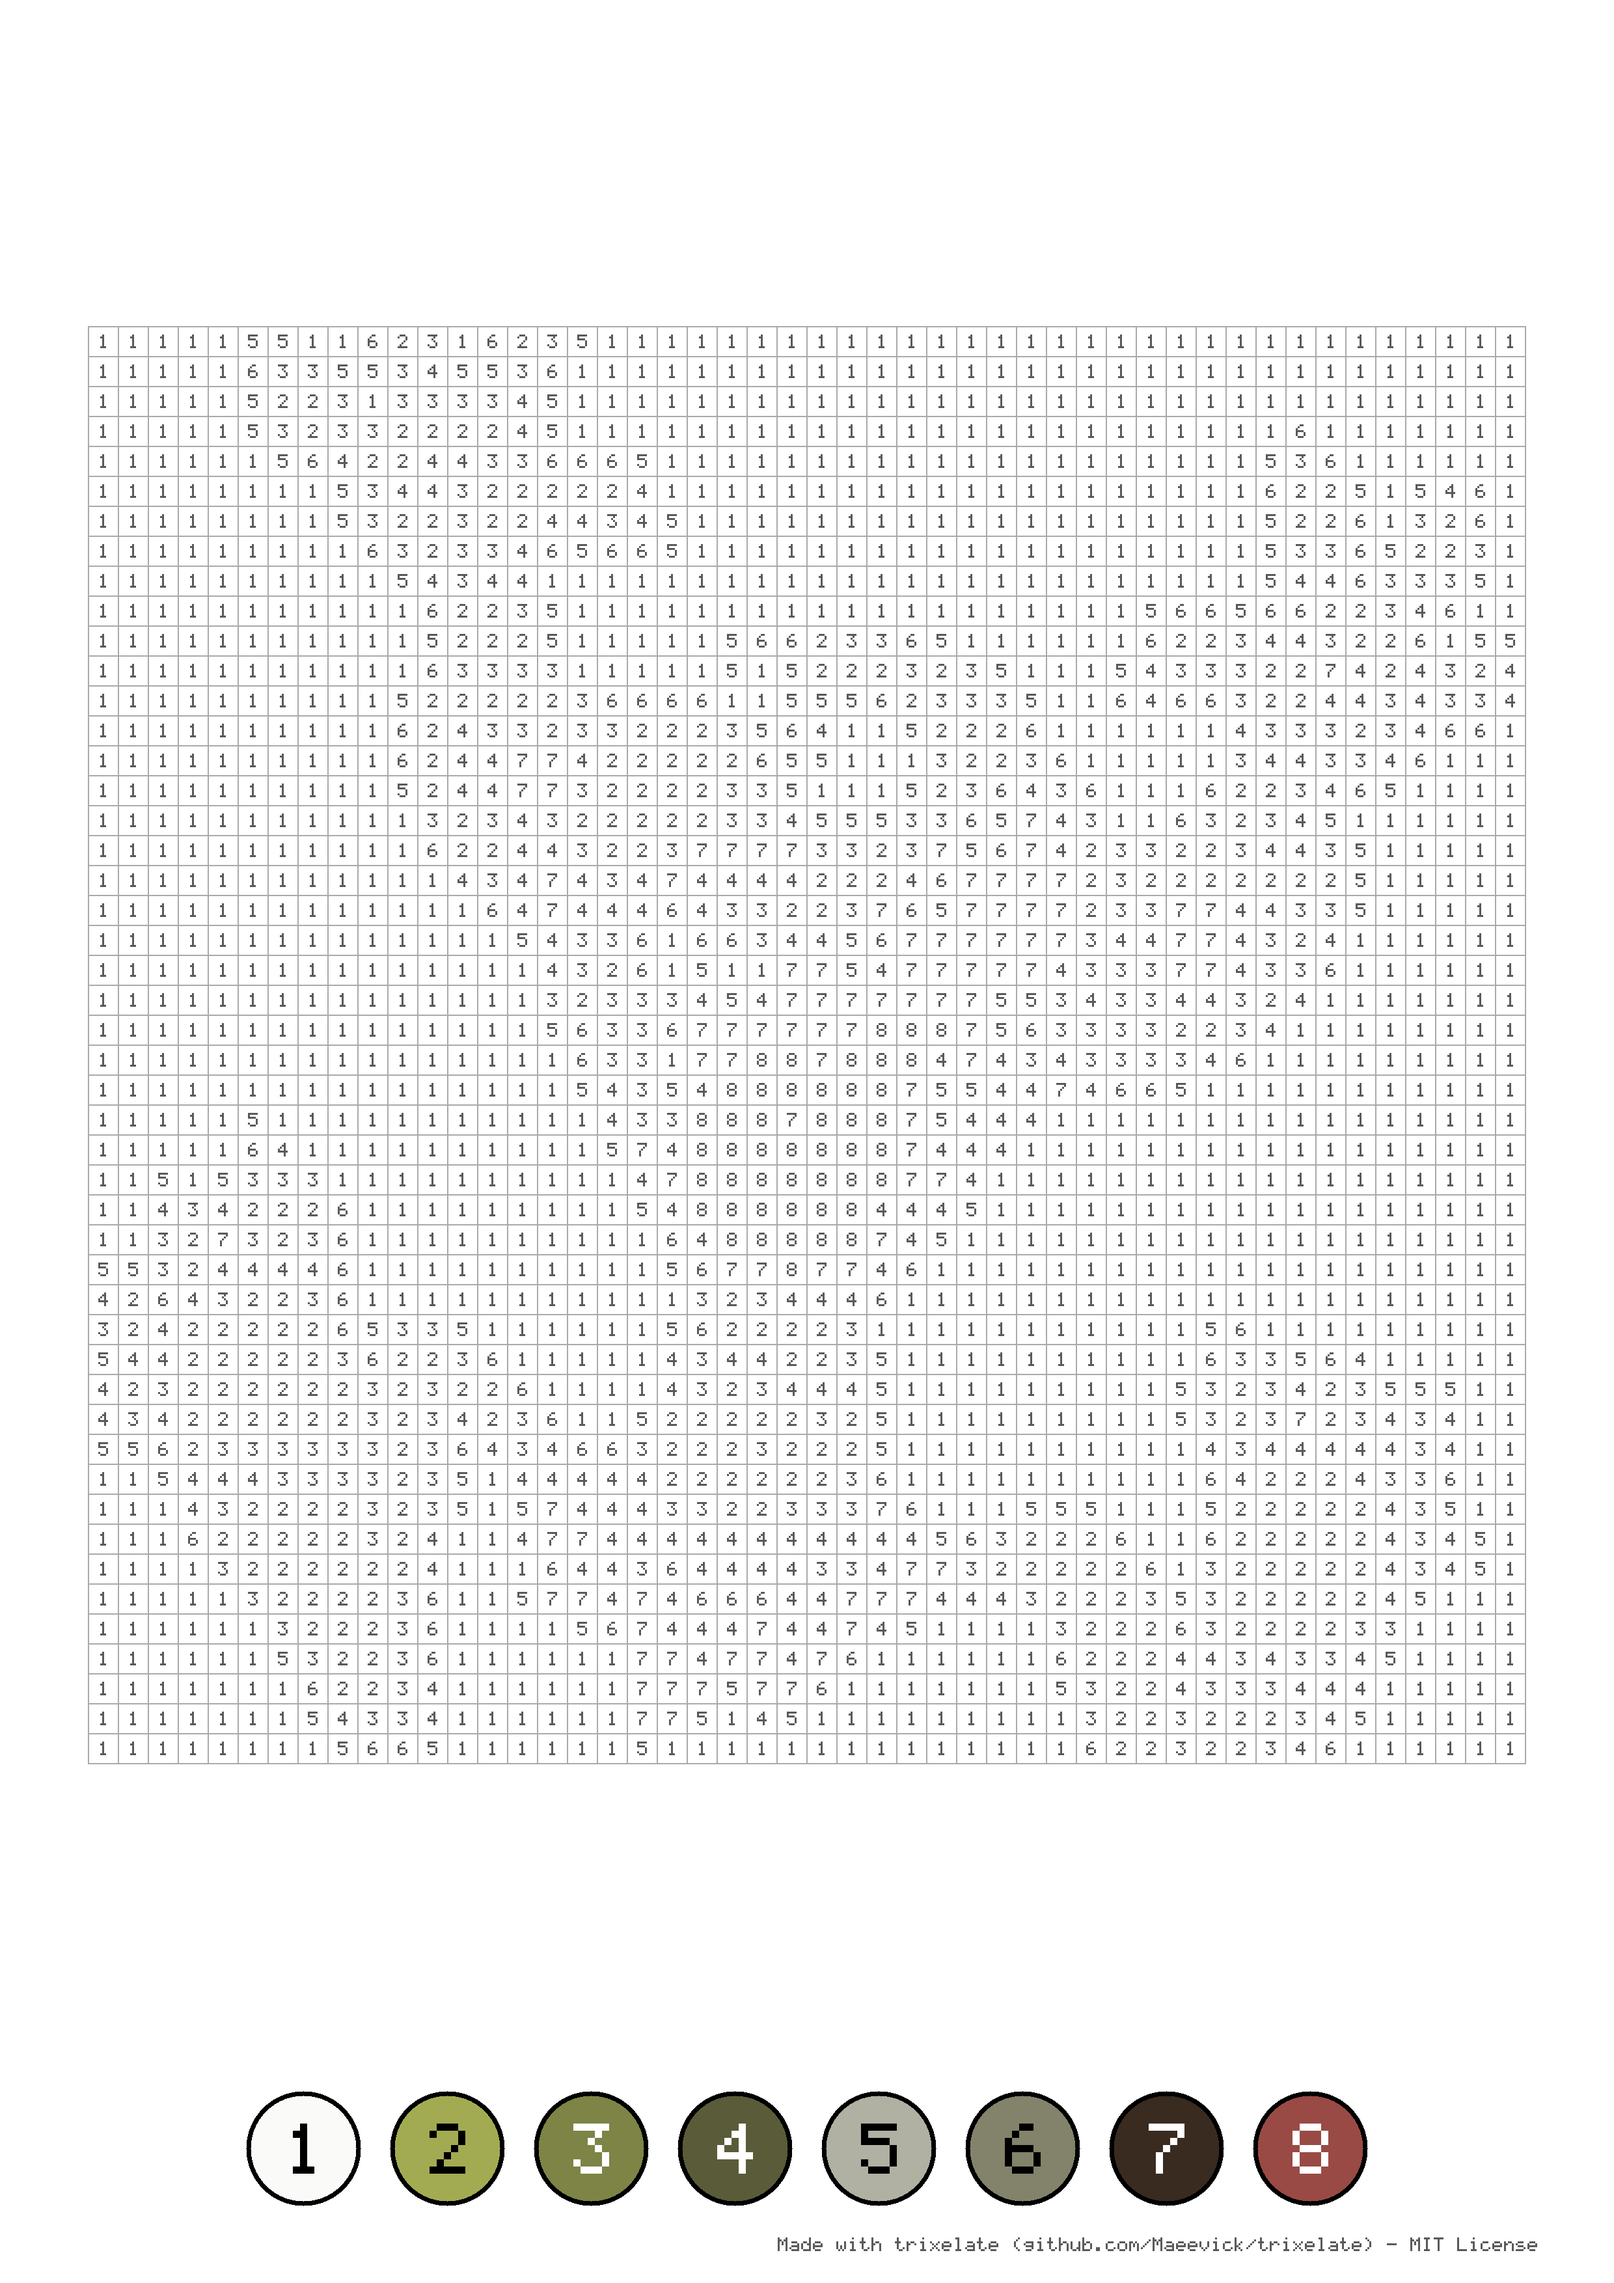
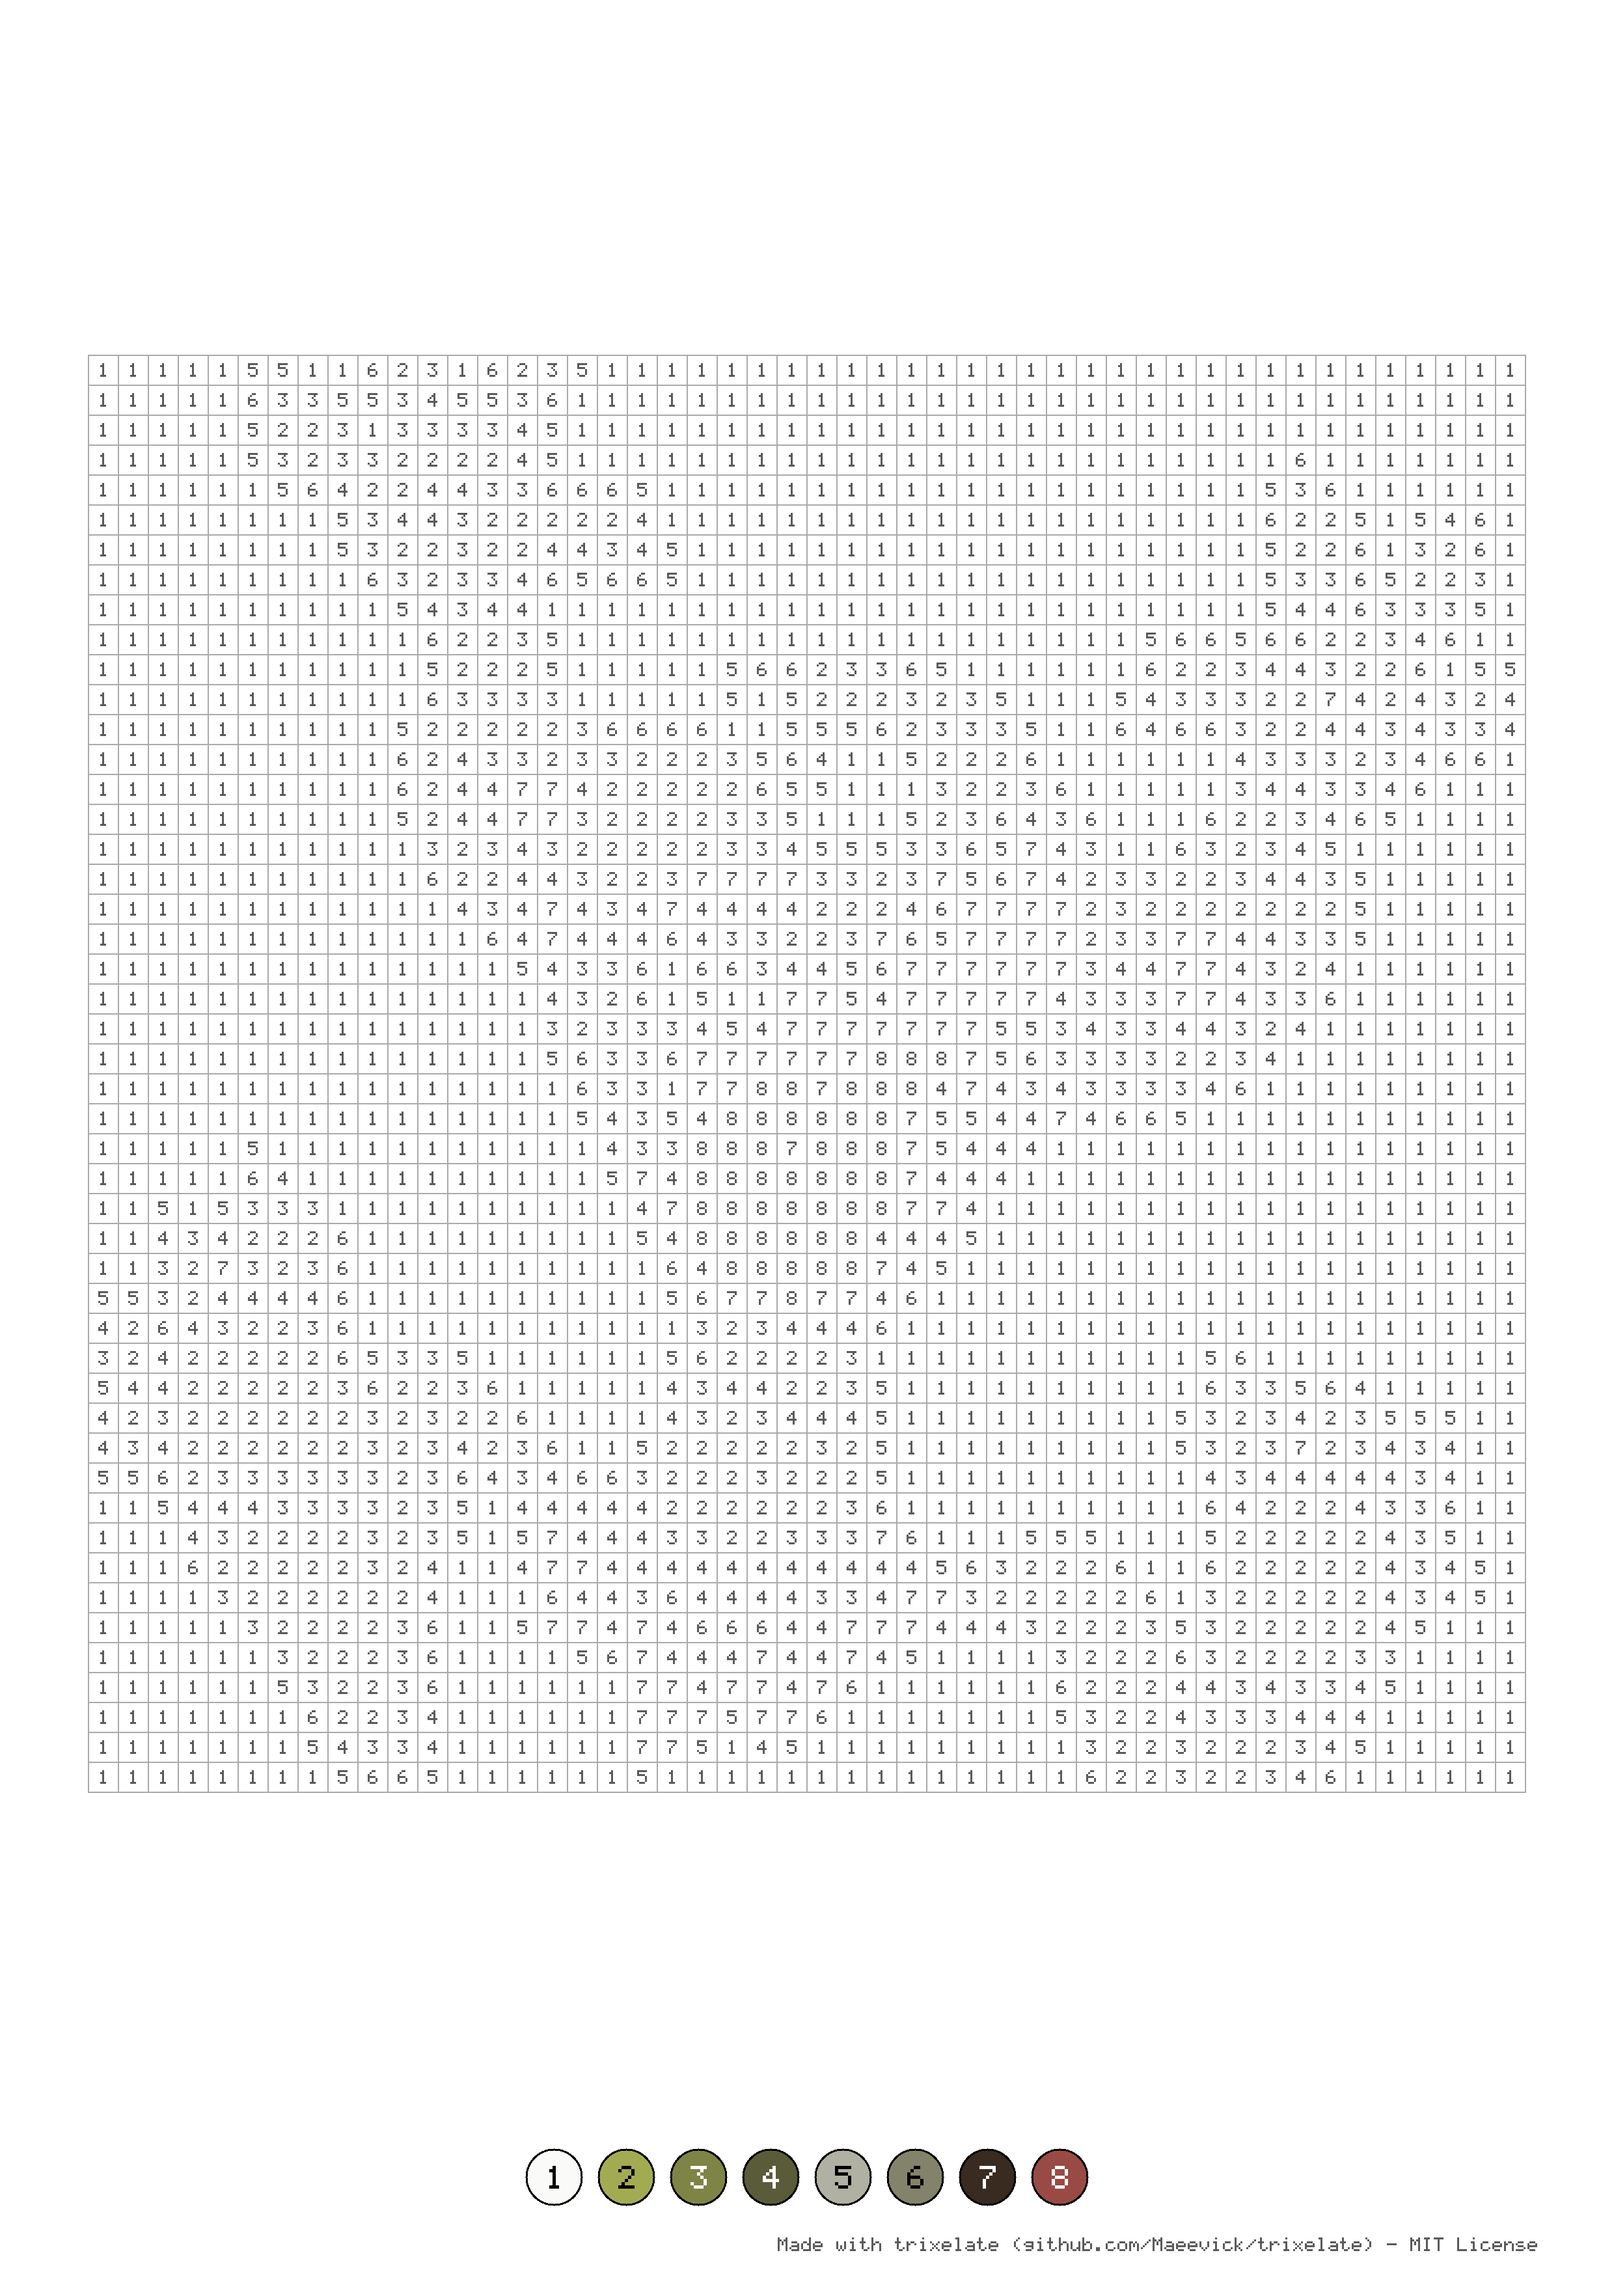
docs: the model sits a quarter of the grid wide in the page's corner, and the samples and screenshot show it with the smaller bubbles

Changed region(s): [[0.0621, 0.1554, 0.9315, 0.7768], [0.1552, 0.9011, 0.8694, 0.9632]]

diff --git a/crates/trixelate-cli/src/main.rs b/crates/trixelate-cli/src/main.rs
@@ -52,7 +52,7 @@ struct Cli {
     #[arg(long, group = "look")]
     freedom: bool,
 
-    /// Put the model in miniature over the sheet's top left corner, the picture in its colours to copy from
+    /// Put the model in miniature in the page's top left corner, a quarter of the grid wide, the picture in its colours to copy from
     #[arg(long, group = "look")]
     with_model: bool,
 

diff --git a/README.md b/README.md
@@ -43,7 +43,7 @@ trixelate [OPTIONS] <PICTURE>
 | `--landscape` | Lay the paper on its side, for wide pictures | upright |
 | `-m`, `--margin` | The blank paper around the sheet, in millimetres | 10 |
 | `--freedom` | No legend: the numbers only group the cells, and the child picks the colours | |
-| `--with-model` | The model in miniature over the sheet's top left corner, an eighth of the grid wide, the picture in its colours to copy from | |
+| `--with-model` | The model in miniature in the page's top left corner, a quarter of the grid wide and over it where they meet, the picture in its colours to copy from | |
 | `-o`, `--output` | Where to write the sheet | beside the picture, named after it and its settings, so variants never overwrite each other: `goblin-48-8-a4.sheet.png`, `goblin-32-24-a5-landscape-with-model.sheet.png`, `goblin-48-8-a4-freedom.sheet.png` |
 | `--force` | Overwrite the sheet if it already exists | |
 | `-y`, `--yes` | Go ahead without being asked when warned: under 16 cells across it is big cubes, under 4 colours solid patches, more than pixel art | asks |
@@ -55,7 +55,7 @@ A goblin turned into a sheet to colour with `trixelate sample/goblin.png`, and i
 
 | Picture | Sheet | With its model |
 | --- | --- | --- |
-| ![A cheerful green goblin, arms up, sticking out its red tongue](sample/goblin.png) | ![The goblin as a colour-by-number sheet: a grid of numbered cells above a legend of eight coloured bubbles](sample/goblin.sheet.png) | ![The goblin's sheet with its model: the same grid, the goblin in miniature and in colour over its top left corner](sample/goblin.with-model.png) |
+| ![A cheerful green goblin, arms up, sticking out its red tongue](sample/goblin.png) | ![The goblin as a colour-by-number sheet: a grid of numbered cells above a legend of eight coloured bubbles](sample/goblin.sheet.png) | ![The goblin's sheet with its model: the same grid, the goblin in miniature and in colour in the page's top left corner, over the grid's corner](sample/goblin.with-model.png) |
 
 ## In the browser
 
@@ -77,7 +77,7 @@ make web-build  # a static site in crates/trixelate-web/dist, for any host
 3. **The palette is cut from the cells' colours**: the box of colours that spreads the most is cut through the middle of its widest channel until there are as many boxes as colours asked, and each box gives its weighted average. Far-apart colours are never merged, and colour 1 is the one used most.
 4. **Every cell takes the number of its nearest palette colour**, and a colour no cell takes is dropped, so every bubble has cells to colour.
 5. **The layout gives the cells the largest square side the page allows**, inside the margin and above the legend, and the largest digits each cell and bubble can hold.
-6. **A model sits in miniature over the grid's top left corner**, an eighth of its width and sticking out by a third, a block of colour per cell, framed, with no number and no line.
+6. **A model sits in miniature in the page's top left corner**, inside the margin, a quarter of the grid's width and over the grid where they meet, a block of colour per cell, framed, with no number and no line.
 7. **A small credit is written at the bottom right**, in the margin: trixelate and its licence.
 
 ![A twelve-colour sheet on A5 with its model: the grid of numbered cells, the twelve colours in miniature over its top left corner, the legend below](crates/trixelate-cli/tests/golden/twelve-a5-with-model.sheet.png)

diff --git a/GLOSSARY.md b/GLOSSARY.md
@@ -11,7 +11,7 @@ The words trixelate's code and docs use, read before naming anything.
 | **Colour number** | A colour's place in the palette, from 1, written in every cell to paint with it. |
 | **Colouring** | A grid's cells, each with its colour number, and the palette they are numbered from. |
 | **Sheet** | The page printed for the child: the grid of numbered cells and its legend. |
-| **Model** | The picture in miniature over the sheet's top left corner, a block of colour per cell with no number and no line, for the child to see what they are making. |
+| **Model** | The picture in miniature in the page's top left corner, a quarter of the grid wide and over it where they meet, a block of colour per cell with no number and no line, for the child to see what they are making. |
 | **Page format** | The paper the sheet is drawn for, A3, A4 or A5, at 300 dots per inch. |
 | **Orientation** | Which way up the paper lies: portrait, upright, or landscape, on its side. |
 | **Margin** | The blank paper around the sheet's content, 20 mm unless asked otherwise. |
